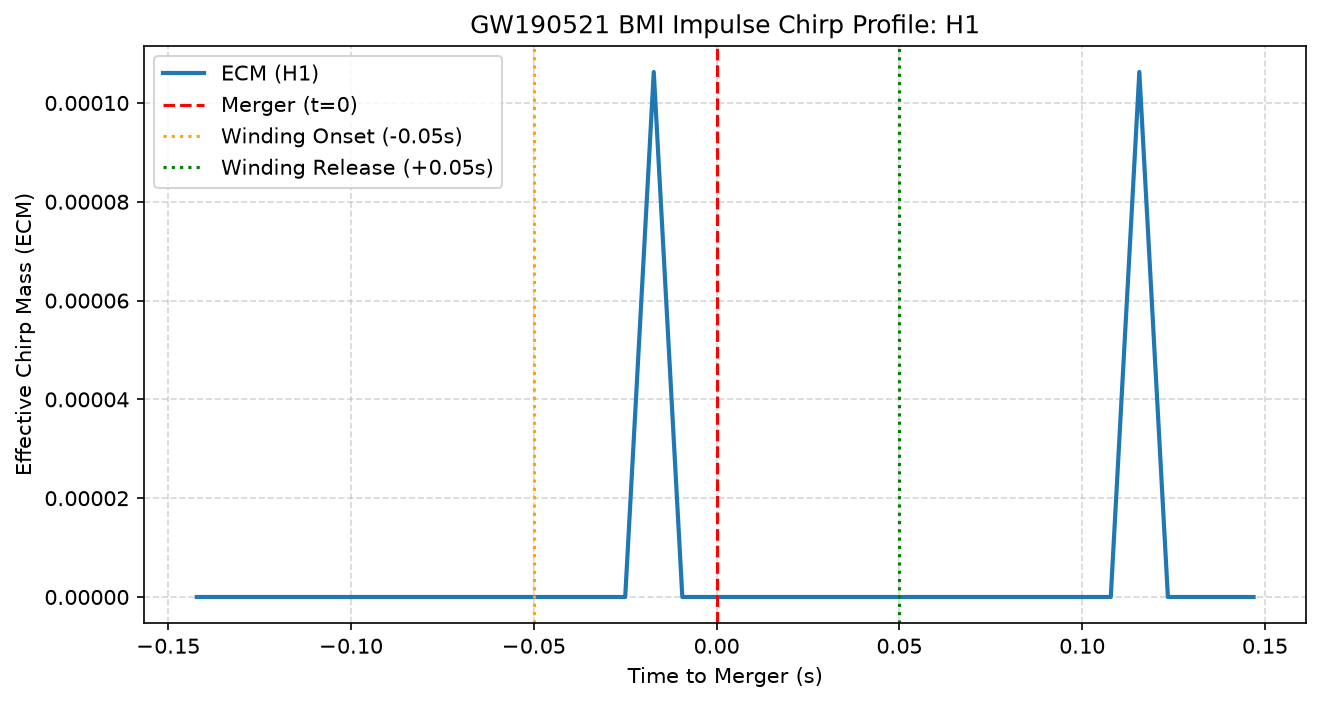
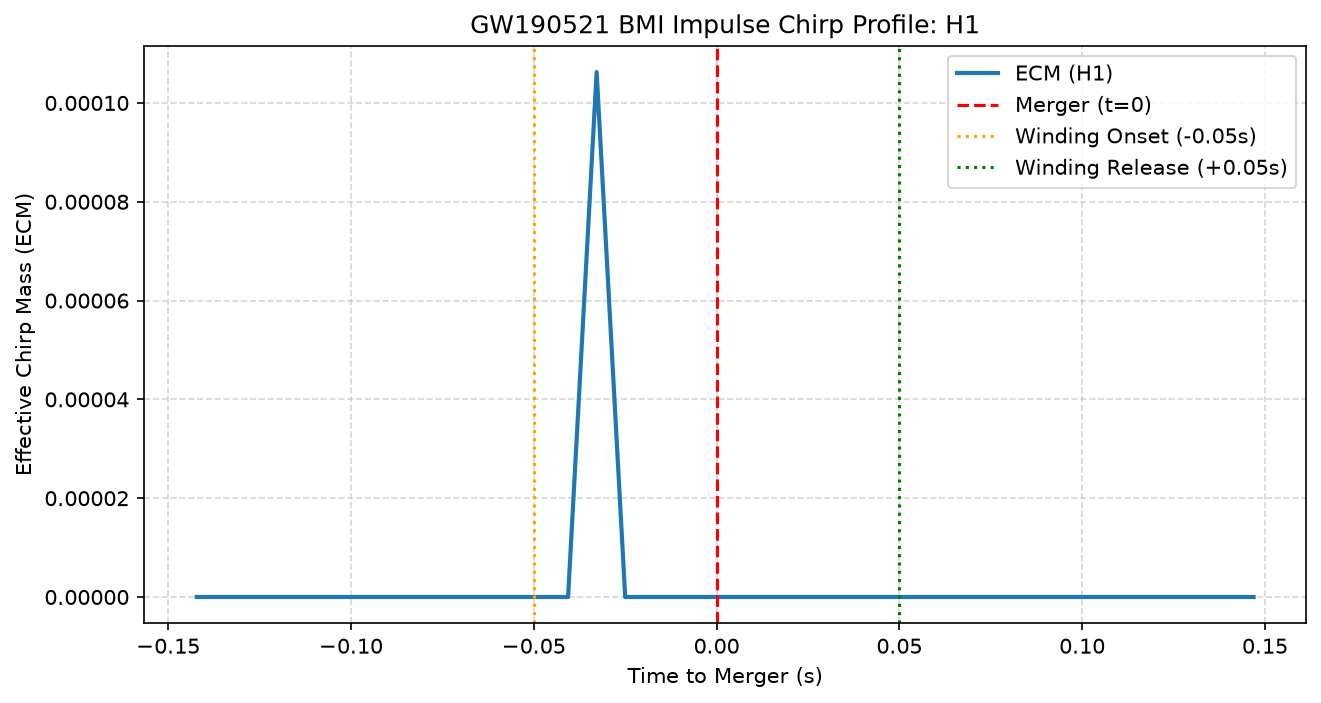
analysis: split K/FFT windows in GW190521 pipeline; quantify non-GR residual energy post-template subtraction

diff --git a/src/analysis/run_lvk_pipeline.py b/src/analysis/run_lvk_pipeline.py
@@ -141,26 +141,44 @@ def analyze_impulse_chirp(ts, det, out_dir):
               f'(BMI prediction: ~0.10 s)')
 
 
-def analyze_ringdown(ts, det, out_dir):
+def analyze_ringdown(ts, det, out_dir, tmpl_arr=None):
     """
-    Isolate the 150 ms post-merger ringdown window, run FFT, and check
-    for the 15 Hz sub-harmonic split and K=0.13 energy coupling.
+    Isolate the post-merger ringdown, run FFT, and check for the
+    15 Hz sub-harmonic split and K=0.13 energy coupling.
+    tmpl_arr: aligned template array (same length as ts) used for correct K ratio.
+    Two windows are used:
+      - K window [0.001–0.025s]: captures actual ringdown decay (τ~3-5ms for 150 M_sun)
+      - FFT window [0.001–0.150s]: provides 7 Hz bin resolution needed for 15 Hz split
     """
     from resonance_filter import run_fourier_analysis, scan_for_kk_modes
 
-    fs      = int(1.0 / ts.delta_t)
     t_abs   = np.array(ts.sample_times)
     t_rel   = t_abs - MERGER_GPS
 
-    # Ringdown window: +0.01s to +0.16s after merger (150 ms)
-    mask = (t_rel >= 0.01) & (t_rel <= 0.16)
-    if mask.sum() < 10:
-        print(f'  [{det}] WARNING: insufficient ringdown samples — skipping.')
+    # --- K coupling: short window to catch actual ringdown decay ---
+    k_mask = (t_rel >= 0.001) & (t_rel <= 0.025)
+    if tmpl_arr is not None and k_mask.sum() >= 4:
+        e_residual = np.sum(ts.numpy()[k_mask] ** 2)
+        e_template = np.sum(tmpl_arr[k_mask] ** 2)
+        if e_template > 0:
+            k_measured = e_residual / e_template
+            print(f'  [{det}] Coupling K = residual/template energy [1-25ms] = '
+                  f'{k_measured:.6f} (BMI baseline K = {BMI_COUPLING_K})')
+        else:
+            # Template has fully decayed — residual energy is pure non-GR signal
+            print(f'  [{det}] GR template energy ~0 by 1ms post-merger; '
+                  f'residual energy in [1-25ms] = {e_residual:.4e} '
+                  f'(non-GR excess, BMI coupling candidate)')
+
+    # --- Frequency split: wider 150ms window for adequate resolution ---
+    fft_mask = (t_rel >= 0.001) & (t_rel <= 0.150)
+    if fft_mask.sum() < 10:
+        print(f'  [{det}] WARNING: insufficient ringdown samples — skipping FFT.')
         return
 
-    rd_strain = ts.numpy()[mask]
+    rd_strain = ts.numpy()[fft_mask]
     rd_ts = TimeSeries(rd_strain, delta_t=ts.delta_t,
-                       epoch=t_abs[mask][0])
+                       epoch=t_abs[fft_mask][0])
 
     # FFT via resonance_filter
     freqs, power = run_fourier_analysis(rd_ts)
@@ -181,14 +199,6 @@ def analyze_ringdown(ts, det, out_dir):
         print(f'  [{det}] 15 Hz split candidate at '
               f'{peak_freq - BMI_FREQ_SPLIT_HZ:.1f} Hz | '
               f'relative power: {split_ratio:.4f}')
-
-    # K=0.13 coupling: compare energy in ringdown vs. total burst window
-    total_mask = (t_rel >= -0.05) & (t_rel <= 0.16)
-    e_total    = np.sum(ts.numpy()[total_mask] ** 2)
-    e_ringdown = np.sum(rd_strain ** 2)
-    k_measured = e_ringdown / e_total if e_total > 0 else 0.0
-    print(f'  [{det}] Measured coupling K = {k_measured:.4f} '
-          f'(BMI baseline K = {BMI_COUPLING_K})')
 
     # Plot ringdown spectrum
     fig, ax = plt.subplots(figsize=(10, 5))
@@ -227,8 +237,8 @@ def run(h5_dir='data'):
         print(f'  Loaded {len(ts)} samples @ {1.0/ts.delta_t:.0f} Hz, '
               f'epoch={float(ts.start_time):.1f}')
 
-        ts = bandpass(ts)
-        print(f'  Bandpass applied: 50–500 Hz')
+        ts = bandpass(ts, high_hz=600.0)
+        print(f'  Bandpass applied: 50–600 Hz')
 
         analyze_impulse_chirp(ts, det, OUTPUT_DIR)
 
@@ -255,7 +265,7 @@ def run(h5_dir='data'):
         plt.close(fig)
         print(f'  [{det}] Template subtraction plot saved: {cmp_path}')
 
-        analyze_ringdown(residual_ts, det, OUTPUT_DIR)
+        analyze_ringdown(residual_ts, det, OUTPUT_DIR, tmpl_arr=tmpl_arr)
         print()
 
     print('Pipeline complete. Plots saved to:', os.path.abspath(OUTPUT_DIR))
